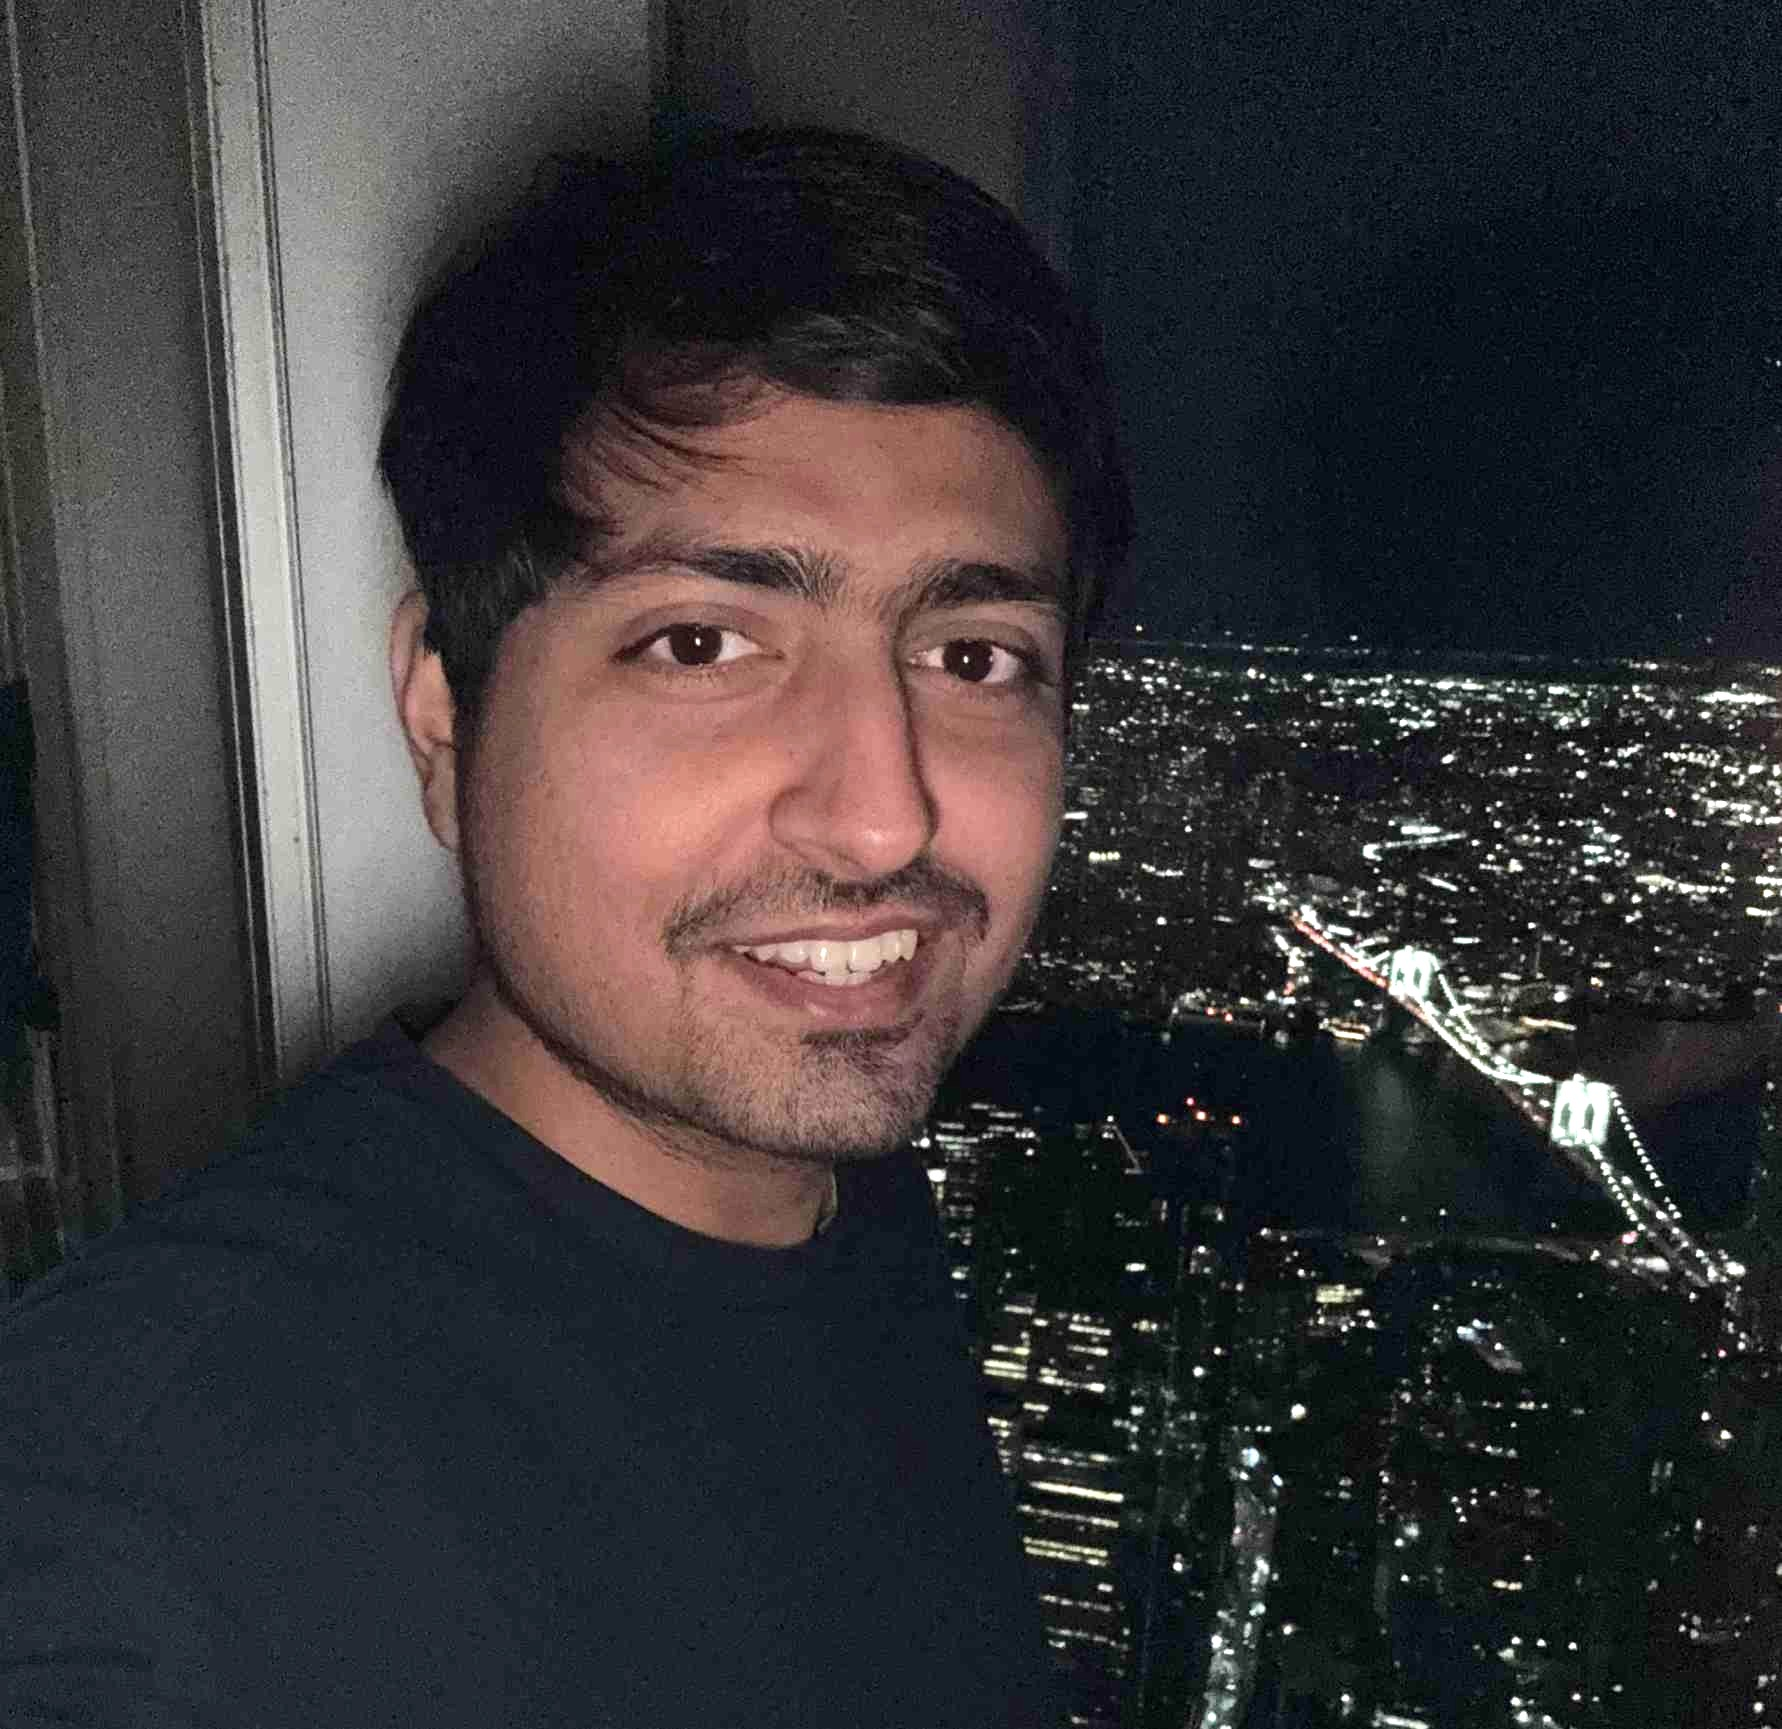
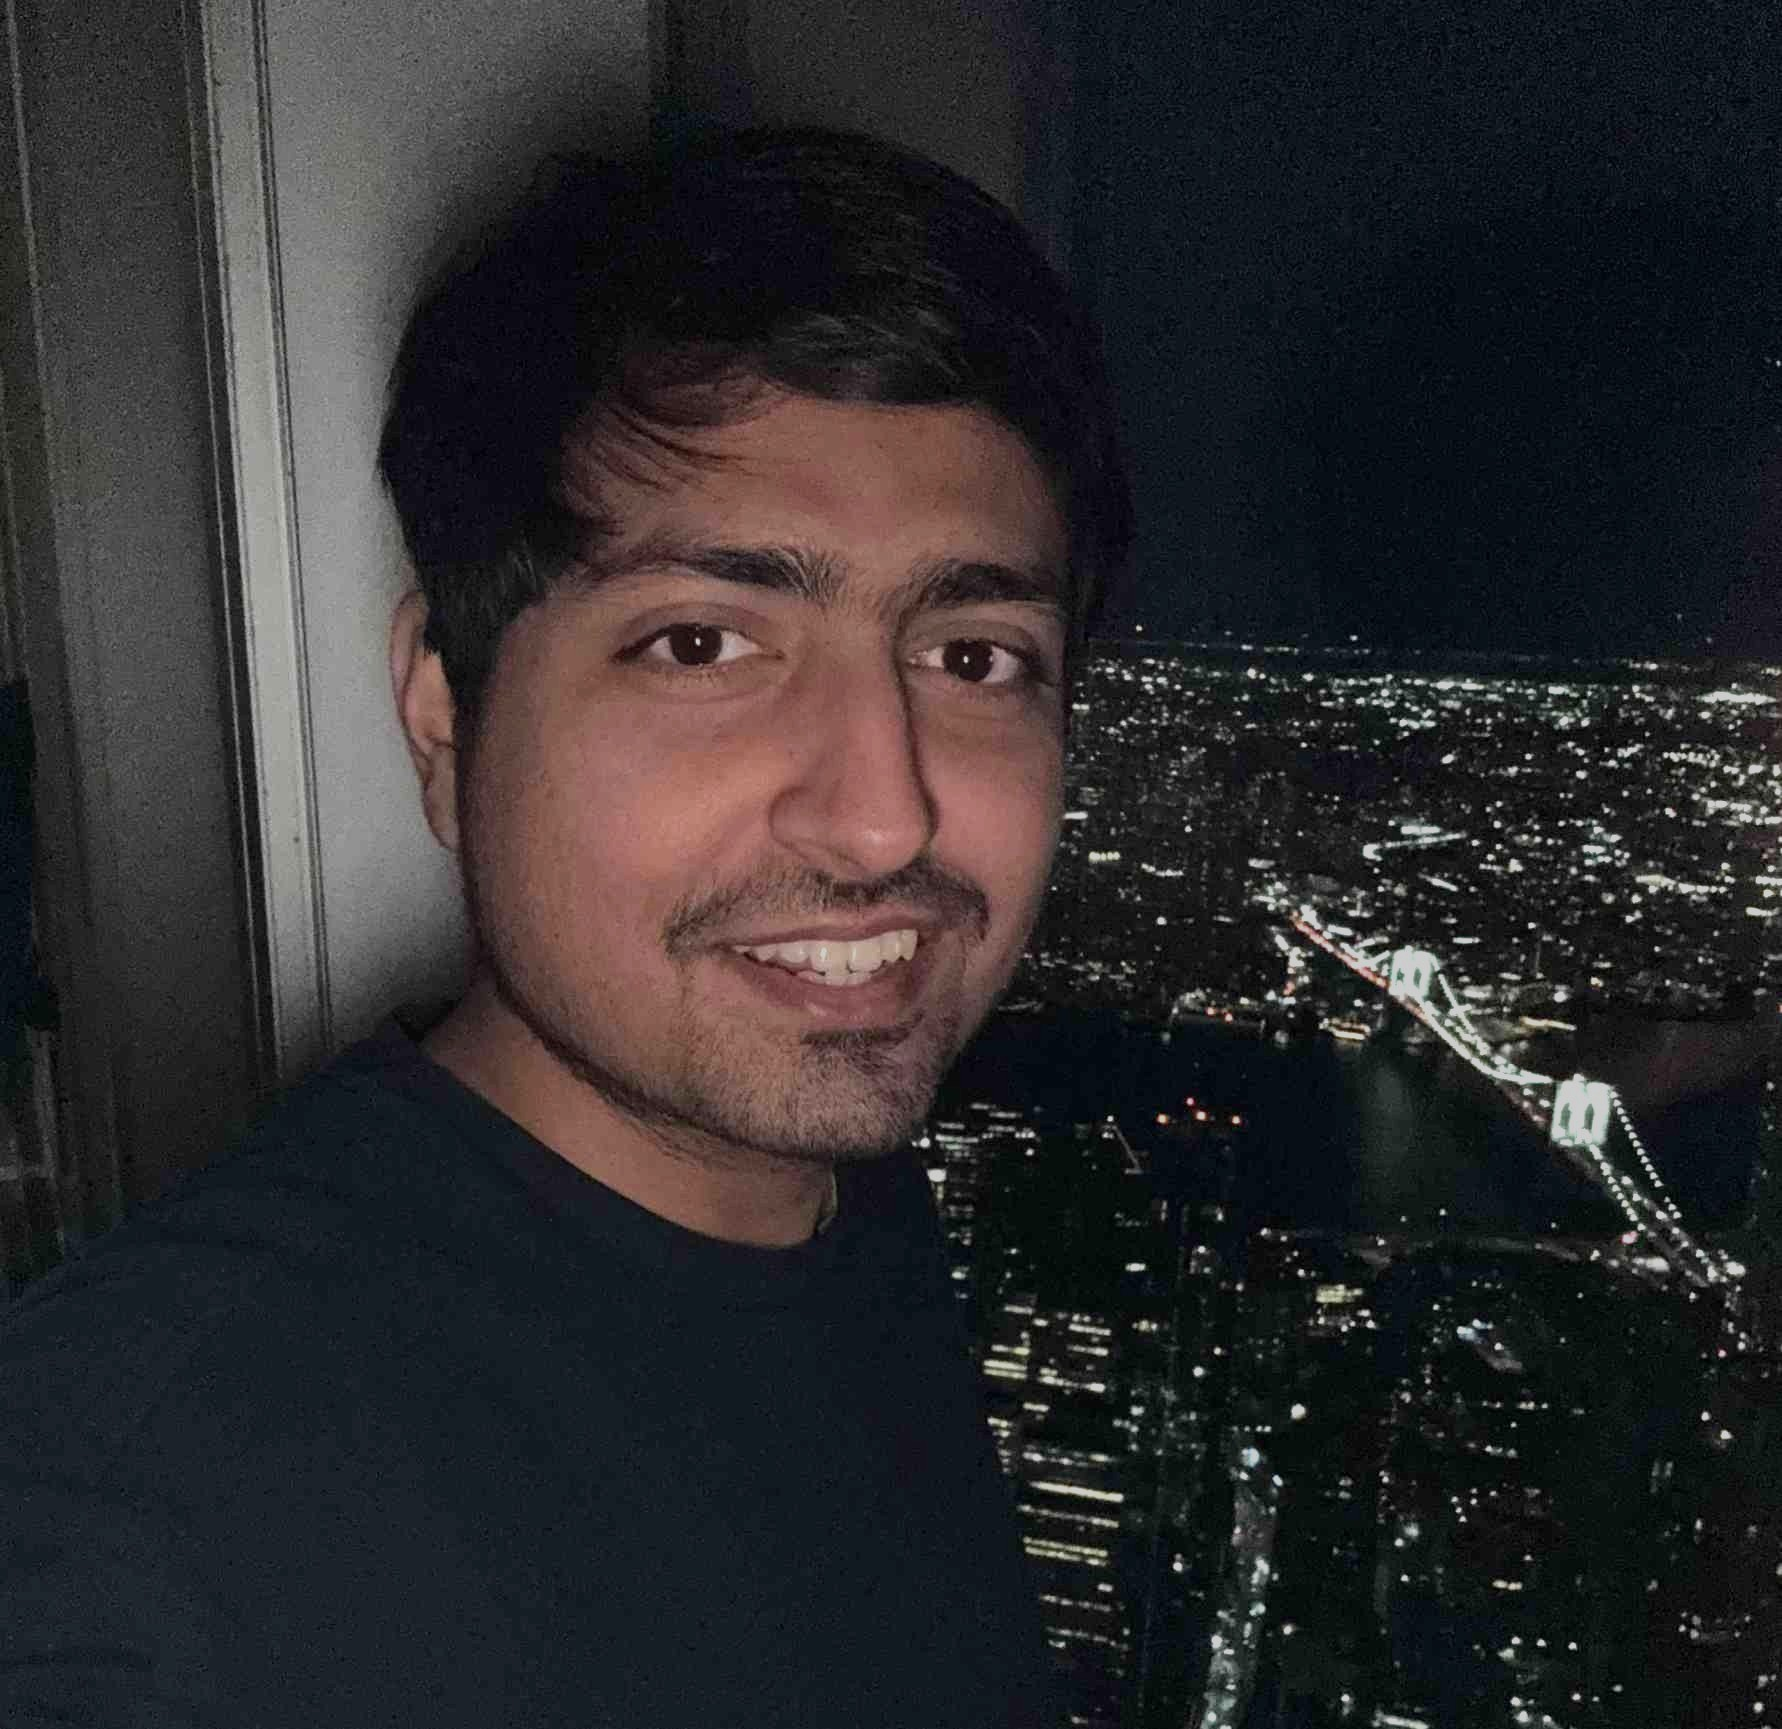
Add updated images and profile again 2

diff --git a/index.html b/index.html
@@ -35,7 +35,7 @@
       top: 0;
       z-index: 50;
       background: linear-gradient(315deg,#4a001f 0%, #860038 60%, #a10e4d 100%);
-      border-bottom: 1px solid rgba(255,255,255,.18);
+      border-bottom: 1px solid rgba(95, 71, 227, 0.14);
       box-shadow: 0 6px 18px rgba(0,0,0,.35);
       /* If you want a Fordham photo under the gradient, uncomment:
       background-image:
@@ -1415,7 +1415,7 @@
         Download Resume
       </a>
     </div>
-    <p id="gateAbout" class="gate-about">AI/ML Architect seeking opportunities to turn creative ideas into scalable, ROI-driven solutions through outside-the-box thinking and comprehensive problem-solving</p>
+    <p id="gateAbout" class="gate-about">Seeking opportunities to turn creative ideas into scalable, ROI-driven solutions through outside-the-box thinking and comprehensive problem-solving</p>
     <button id="enterBtn" class="gate-btn enter-btn">Explore My Work</button>
     </div>
     <!-- Outside-the-card location pill -->
@@ -1486,7 +1486,7 @@
     <div style="max-width:1280px;margin:0 auto;padding:0 20px;display:flex;flex-wrap:wrap;gap:16px;align-items:center;justify-content:space-between">
       <div>© <span id="year"></span> Utkarsh Jha MSAIB</div>
       <div style="display:flex;gap:14px;align-items:center;flex-wrap:wrap">
-        <a href="tel:+16465779724">📞 +1 (646) 577‑9724</a>
+        <a href="tel:+19176569297">📞 +1 (917) 656‑9297</a>
         <a href="mailto:uj3@fordham.edu">📩 uj3@fordham.edu</a>
         <a href="https://www.linkedin.com/in/utkarsh-jha-05ab00120/"
           target="_blank" rel="noopener"
